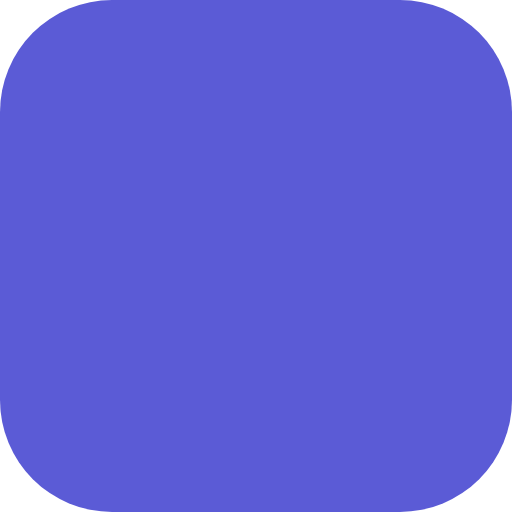
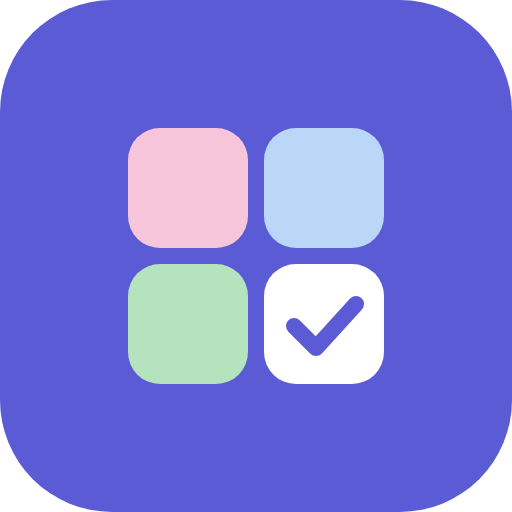
feat(pwa): installation sur iPhone, icône masquable et conseil sur l’accueil (T028)
- Icône dessinée (tuiles des thématiques), icône masquable 512 à fond plein,
  apple-touch-icon à fond plein.
- Balises Apple (capable, barre d’état, titre), description, couleur de thème
  alignée sur le fond des écrans.
- Conseil « Ajouter à l’écran d’accueil » sur Safari iPhone hors app installée,
  masquable et mémorisé ; composant partagé avec Réglages.

Changed region(s): [[0.25, 0.25, 0.75, 0.75]]

diff --git a/e2e/accueil.spec.ts b/e2e/accueil.spec.ts
@@ -52,3 +52,33 @@ test('thématiques, cartes du jour et réglages', async ({ page }) => {
   await page.getByRole('link', { name: 'Réglages' }).click()
   await expect(page).toHaveURL(/#\/reglages$/)
 })
+
+test.describe('conseil d’installation', () => {
+  test('sur Safari iPhone, il s’affiche jusqu’à ce qu’on le masque', async ({ page, browserName }) => {
+    test.skip(browserName !== 'webkit', 'Safari iPhone seulement')
+    await seed(page)
+    const hint = page.getByRole('region', { name: 'Installer l’app' })
+    await expect(hint).toContainText('touchez Partager puis Sur l’écran d’accueil')
+    await hint.getByRole('button', { name: 'Masquer ce conseil' }).click()
+    await expect(hint).toHaveCount(0)
+    await expect(page.getByRole('link', { name: 'Tout voir' })).toBeFocused()
+    await page.reload()
+    await expect(page.getByRole('heading', { level: 1, name: 'Bonjour Paul' })).toBeVisible()
+    await expect(hint).toHaveCount(0)
+  })
+
+  test('absent une fois l’app installée', async ({ page, browserName }) => {
+    test.skip(browserName !== 'webkit', 'Safari iPhone seulement')
+    await page.addInitScript(() => Object.defineProperty(navigator, 'standalone', { value: true }))
+    await seed(page)
+    await expect(page.getByRole('heading', { level: 1, name: 'Bonjour Paul' })).toBeVisible()
+    await expect(page.getByRole('region', { name: 'Installer l’app' })).toHaveCount(0)
+  })
+
+  test('absent hors de Safari iPhone', async ({ page, browserName }) => {
+    test.skip(browserName === 'webkit', 'Android seulement')
+    await seed(page)
+    await expect(page.getByRole('heading', { level: 1, name: 'Bonjour Paul' })).toBeVisible()
+    await expect(page.getByRole('region', { name: 'Installer l’app' })).toHaveCount(0)
+  })
+})

diff --git a/e2e/smoke.spec.ts b/e2e/smoke.spec.ts
@@ -6,3 +6,25 @@ test('affiche l’accueil quand un profil existe', async ({ page }) => {
   await expect(page.getByRole('heading', { level: 1, name: 'Bonjour Paul' })).toBeVisible()
   await expect(page).toHaveTitle('Civique - examen carte de résident')
 })
+
+test('installable sur iPhone : manifest, icônes et balises Apple', async ({ page, request }) => {
+  await page.goto('./')
+  const head = page.locator('head')
+  await expect(head.locator('link[rel="apple-touch-icon"]')).toHaveAttribute('href', './apple-touch-icon.png')
+  await expect(head.locator('meta[name="apple-mobile-web-app-capable"]')).toHaveAttribute('content', 'yes')
+  await expect(head.locator('meta[name="apple-mobile-web-app-status-bar-style"]')).toHaveAttribute('content', 'default')
+  await expect(head.locator('meta[name="apple-mobile-web-app-title"]')).toHaveAttribute('content', 'Civique')
+
+  const manifest = await (await request.get(await head.locator('link[rel="manifest"]').getAttribute('href') ?? '')).json()
+  expect(manifest).toMatchObject({ name: 'Civique - examen carte de résident', short_name: 'Civique', start_url: './', scope: './', display: 'standalone' })
+  expect(manifest.icons).toEqual(
+    expect.arrayContaining([
+      expect.objectContaining({ src: 'icon-192.png', sizes: '192x192' }),
+      expect.objectContaining({ src: 'icon-512.png', sizes: '512x512' }),
+      expect.objectContaining({ src: 'icon-maskable-512.png', sizes: '512x512', purpose: 'maskable' }),
+    ]),
+  )
+  for (const src of [...manifest.icons.map((i: { src: string }) => i.src), 'apple-touch-icon.png']) {
+    expect((await request.get(src)).headers()['content-type'], src).toBe('image/png')
+  }
+})

diff --git a/src/screens/Accueil.tsx b/src/screens/Accueil.tsx
@@ -1,8 +1,11 @@
+import { useRef, useState } from 'react'
+import InstallHint from '../components/InstallHint'
 import { lessons, questions } from '../content'
 import { isPassed } from '../domain/exam'
 import { examDateLabel, themeMeta } from '../domain/format'
 import { dueCards } from '../domain/srs'
 import { PASS_SCORE, THEME_LABELS, THEMES, type AppData } from '../domain/types'
+import { dismissInstallHint, installHintDismissed, isIosSafari, isStandalone } from '../install'
 import { useAppData } from '../state'
 
 export default function Accueil() {
@@ -10,6 +13,8 @@ export default function Accueil() {
   const now = new Date()
   const dateLabel = examDateLabel(data.profile.examDate, now)
   const due = dueCards(data.cards, now).length
+  const [installHint, setInstallHint] = useState(() => isIosSafari() && !isStandalone() && !installHintDismissed())
+  const nextLink = useRef<HTMLAnchorElement>(null)
 
   return (
     <div className="accueil">
@@ -28,9 +33,21 @@ export default function Accueil() {
 
       <ExamCard data={data} />
 
+      {installHint && (
+        <InstallHint
+          onDismiss={() => {
+            dismissInstallHint()
+            setInstallHint(false)
+            nextLink.current?.focus() // the focused button disappears
+          }}
+        />
+      )}
+
       <div className="accueil__section">
         <h2>Les 5 thématiques</h2>
-        <a href="#/lecons">Tout voir</a>
+        <a ref={nextLink} href="#/lecons">
+          Tout voir
+        </a>
       </div>
 
       <div className="accueil__tiles">

diff --git a/src/screens/Reglages.tsx b/src/screens/Reglages.tsx
@@ -1,13 +1,12 @@
 import { useRef, useState } from 'react'
 import ConfirmDialog from '../components/ConfirmDialog'
+import InstallHint from '../components/InstallHint'
 import { exportFileName } from '../domain/format'
 import { exportJson, importJson } from '../domain/storage'
 import type { AppData } from '../domain/types'
+import { isStandalone } from '../install'
 import { navigate } from '../router'
 import { useAppData } from '../state'
-
-const isStandalone = () =>
-  matchMedia('(display-mode: standalone)').matches || (navigator as Navigator & { standalone?: boolean }).standalone === true
 
 export default function Reglages() {
   const { data, update, reset } = useAppData()
@@ -90,18 +89,7 @@ export default function Reglages() {
         )}
       </section>
 
-      {!isStandalone() && (
-        <div className="reglages__install">
-          <svg width="22" height="22" viewBox="0 0 24 24" fill="none" stroke="currentColor" strokeWidth="1.8" strokeLinecap="round" strokeLinejoin="round" aria-hidden="true">
-            <rect x="6" y="2" width="12" height="20" rx="3" />
-            <path d="M11 18h2" />
-          </svg>
-          <span>
-            Sur iPhone, touchez <strong>Partager</strong> puis <strong>Sur l'écran d'accueil</strong>. L'app marche hors ligne et vos données
-            sont mieux conservées.
-          </span>
-        </div>
-      )}
+      {!isStandalone() && <InstallHint />}
 
       <button type="button" className="reglages__erase" onClick={() => setConfirmErase(true)}>
         Effacer toutes mes données

diff --git a/src/components/InstallHint.tsx b/src/components/InstallHint.tsx
@@ -1,0 +1,22 @@
+/** How to add the app to the iPhone home screen. With `onDismiss`, a close button. */
+export default function InstallHint({ onDismiss }: { onDismiss?: () => void }) {
+  return (
+    <section className="install-hint" aria-label="Installer l’app">
+      <svg width="22" height="22" viewBox="0 0 24 24" fill="none" stroke="currentColor" strokeWidth="1.8" strokeLinecap="round" strokeLinejoin="round" aria-hidden="true">
+        <rect x="6" y="2" width="12" height="20" rx="3" />
+        <path d="M11 18h2" />
+      </svg>
+      <p>
+        Sur iPhone, touchez <strong>Partager</strong> puis <strong>Sur l’écran d’accueil</strong>. L’app marche hors ligne et vos données sont
+        mieux conservées.
+      </p>
+      {onDismiss && (
+        <button type="button" className="icon-button icon-button--small install-hint__close" aria-label="Masquer ce conseil" onClick={onDismiss}>
+          <svg width="18" height="18" viewBox="0 0 24 24" fill="none" stroke="currentColor" strokeWidth="2" strokeLinecap="round" aria-hidden="true">
+            <path d="M6 6l12 12M18 6L6 18" />
+          </svg>
+        </button>
+      )}
+    </section>
+  )
+}

diff --git a/e2e/screenshots.spec.ts b/e2e/screenshots.spec.ts
@@ -6,6 +6,9 @@ import { appData, examInProgress, finishedExam, seed } from './helpers'
 // Screenshots at 390x844 to compare with design/mockups by eye. Not assertions.
 test.skip(({ browserName }) => browserName !== 'webkit', 'iPhone 13 only')
 test.use({ viewport: { width: 390, height: 844 } }) // the mockup frame, without the Safari toolbars
+// The mockups show the installed app: no install hint, except in accueil-installation.
+const HINT_KEY = 'civique:conseil-installation-masque'
+test.beforeEach(({ page }) => page.addInitScript((key) => localStorage.setItem(key, '1'), HINT_KEY))
 
 const examDate = new Date(Date.now() + 34 * 86_400_000).toISOString().slice(0, 10)
 const profile = { firstName: 'Paul', examDate, createdAt: '2026-11-01T10:00:00.000Z' }
@@ -31,6 +34,12 @@ for (const [name, extra] of [
     await shoot(page, name)
   })
 }
+
+test('accueil-installation', async ({ page }) => {
+  await page.addInitScript((key) => localStorage.removeItem(key), HINT_KEY)
+  await seed(page, appData({ profile, cards }))
+  await shoot(page, 'accueil-installation')
+})
 
 test('reglages', async ({ page }) => {
   await seed(page, appData({ profile }), '#/reglages')

diff --git a/src/install.ts b/src/install.ts
@@ -1,0 +1,28 @@
+/** Opened from the home screen icon. */
+export const isStandalone = () =>
+  matchMedia('(display-mode: standalone)').matches || (navigator as Navigator & { standalone?: boolean }).standalone === true
+
+/** Safari on iPhone or iPad (iPadOS says it is a Mac, with touch). Other iOS browsers have their own menus. */
+export function isIosSafari(): boolean {
+  const ua = navigator.userAgent
+  const ios = /iPhone|iPad|iPod/.test(ua) || (/Macintosh/.test(ua) && navigator.maxTouchPoints > 1)
+  return ios && /Safari\//.test(ua) && !/CriOS|FxiOS|EdgiOS|OPiOS/.test(ua)
+}
+
+const HINT_KEY = 'civique:conseil-installation-masque'
+
+export function installHintDismissed(): boolean {
+  try {
+    return localStorage.getItem(HINT_KEY) !== null
+  } catch {
+    return false
+  }
+}
+
+export function dismissInstallHint(): void {
+  try {
+    localStorage.setItem(HINT_KEY, '1')
+  } catch {
+    // Storage refused: the hint shows again on the next visit.
+  }
+}

diff --git a/vite.config.ts b/vite.config.ts
@@ -15,15 +15,17 @@ export default defineConfig({
       manifest: {
         name: 'Civique - examen carte de résident',
         short_name: 'Civique',
+        description: 'Examen blanc, leçons et cartes de révision pour l’examen civique de la carte de résident.',
         lang: 'fr',
         start_url: './',
         scope: './',
         display: 'standalone',
-        theme_color: '#5B5BD6',
+        theme_color: '#F2F3F7', // the screen background: the status bar blends in, as in the mockups
         background_color: '#F2F3F7',
         icons: [
           { src: 'icon-192.png', sizes: '192x192', type: 'image/png' },
           { src: 'icon-512.png', sizes: '512x512', type: 'image/png' },
+          { src: 'icon-maskable-512.png', sizes: '512x512', type: 'image/png', purpose: 'maskable' },
         ],
       },
       workbox: {

diff --git a/index.html b/index.html
@@ -3,7 +3,12 @@
   <head>
     <meta charset="UTF-8" />
     <meta name="viewport" content="width=device-width, initial-scale=1, viewport-fit=cover" />
-    <meta name="theme-color" content="#5B5BD6" />
+    <meta name="theme-color" content="#F2F3F7" />
+    <meta name="description" content="Examen blanc, leçons et cartes de révision pour l’examen civique de la carte de résident." />
+    <meta name="apple-mobile-web-app-capable" content="yes" />
+    <meta name="mobile-web-app-capable" content="yes" />
+    <meta name="apple-mobile-web-app-status-bar-style" content="default" />
+    <meta name="apple-mobile-web-app-title" content="Civique" />
     <link rel="icon" type="image/svg+xml" href="./icon.svg" />
     <link rel="apple-touch-icon" href="./apple-touch-icon.png" />
     <link rel="preconnect" href="https://fonts.googleapis.com" />

diff --git a/src/styles.css b/src/styles.css
@@ -546,7 +546,7 @@ a:hover {
   font-weight: 500;
 }
 
-.reglages__install {
+.install-hint {
   display: flex;
   align-items: flex-start;
   gap: 12px;
@@ -557,9 +557,20 @@ a:hover {
   line-height: 1.5;
 }
 
-.reglages__install svg {
+.install-hint > svg {
   flex: none;
   margin-top: 2px;
+}
+
+.install-hint p {
+  margin: 0;
+}
+
+.install-hint__close {
+  margin: -10px -12px -10px 0;
+  background: transparent;
+  border: 0;
+  cursor: pointer;
 }
 
 .reglages__erase {

diff --git a/specs/001-examen-civique-cr/tasks.md b/specs/001-examen-civique-cr/tasks.md
@@ -69,7 +69,7 @@ Chaque question est rattachée à une notion de [docs/referentiel.md](../../docs
 ## Phase 10 : finitions
 
 - [x] T027 [P] Écran Réglages : modifier prénom et date, exporter, importer, effacer toutes les données avec confirmation. Fichier : `src/screens/Reglages.tsx`.
-- [ ] T028 [P] Installation sur iPhone : icônes, manifest, message « Ajouter à l'écran d'accueil » sur Safari.
+- [x] T028 [P] Installation sur iPhone : icônes, manifest, message « Ajouter à l'écran d'accueil » sur Safari.
 - [ ] T029 Test de bout en bout Playwright sur viewport iPhone : profil, examen complet, résultats, leçon, cartes, progression, mode hors ligne.
 - [ ] T030 Revue visuelle et accessibilité de chaque écran face aux maquettes (contrastes, cibles de 44 px, lecteur d'écran).
 
